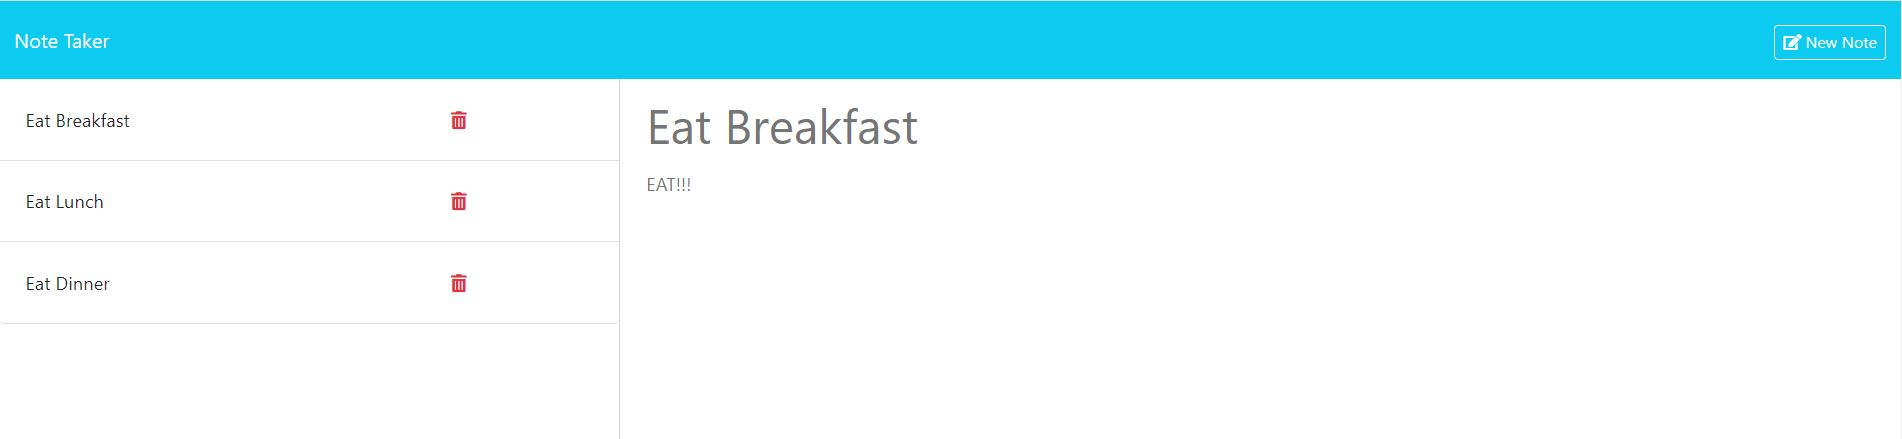
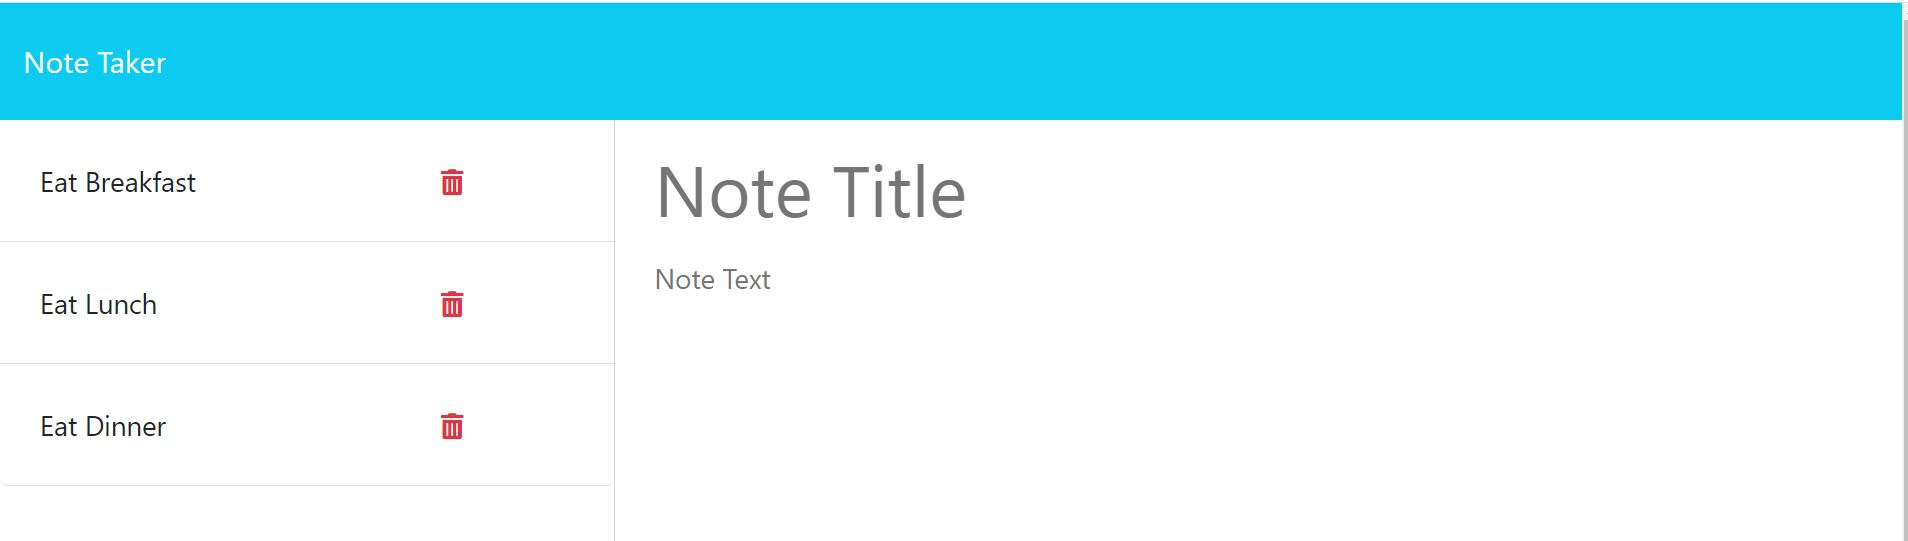
Updated Screenshot in README

diff --git a/README.md b/README.md
@@ -14,7 +14,7 @@ N/A
 
 ## Usage
 
-Here is a screenshot of what the Note Taker Application looks like: ![A screenshot of the Note Taker Application](./public/assets/images/note-taker-application-screenshot.JPG)
+Here is a screenshot of what the Note Taker Application looks like.  I did zoom in on the application some to make the text more clear: ![A screenshot of the Note Taker Application](./public/assets/images/note-taker-application-screenshot.JPG)
 
 To use this application, please navigate to the following link: [https://afternoon-everglades-83941-0b6721489bd6.herokuapp.com/](https://afternoon-everglades-83941-0b6721489bd6.herokuapp.com/).  Next, click the blue **Get Started** button in the center of the screen.  This will take you to the note taker application.  Any previously saved notes will appear at the left side of the screen.  If you wish to see the saved text in a note, rather than just the title, click on the note.  To enter a new note, enter a tile and text on the right side of the screen.  If you have already clicked on an existing note, click **New Note** in the upper-right corner of the screen, and then you will be able to enter a new note.  Once you have entered the note's title and text, you can save the note by clicking **Save Note** in the upper-right portion of the screen.  If, while entering a note, you wish to clear out the text you have entered, you can click the **Clear Form** button in the upper-right corner of the screen.  Once you have clicked the **Save Note** button, the note you entered will appear in the list of notes on the right side of the screen.
 
